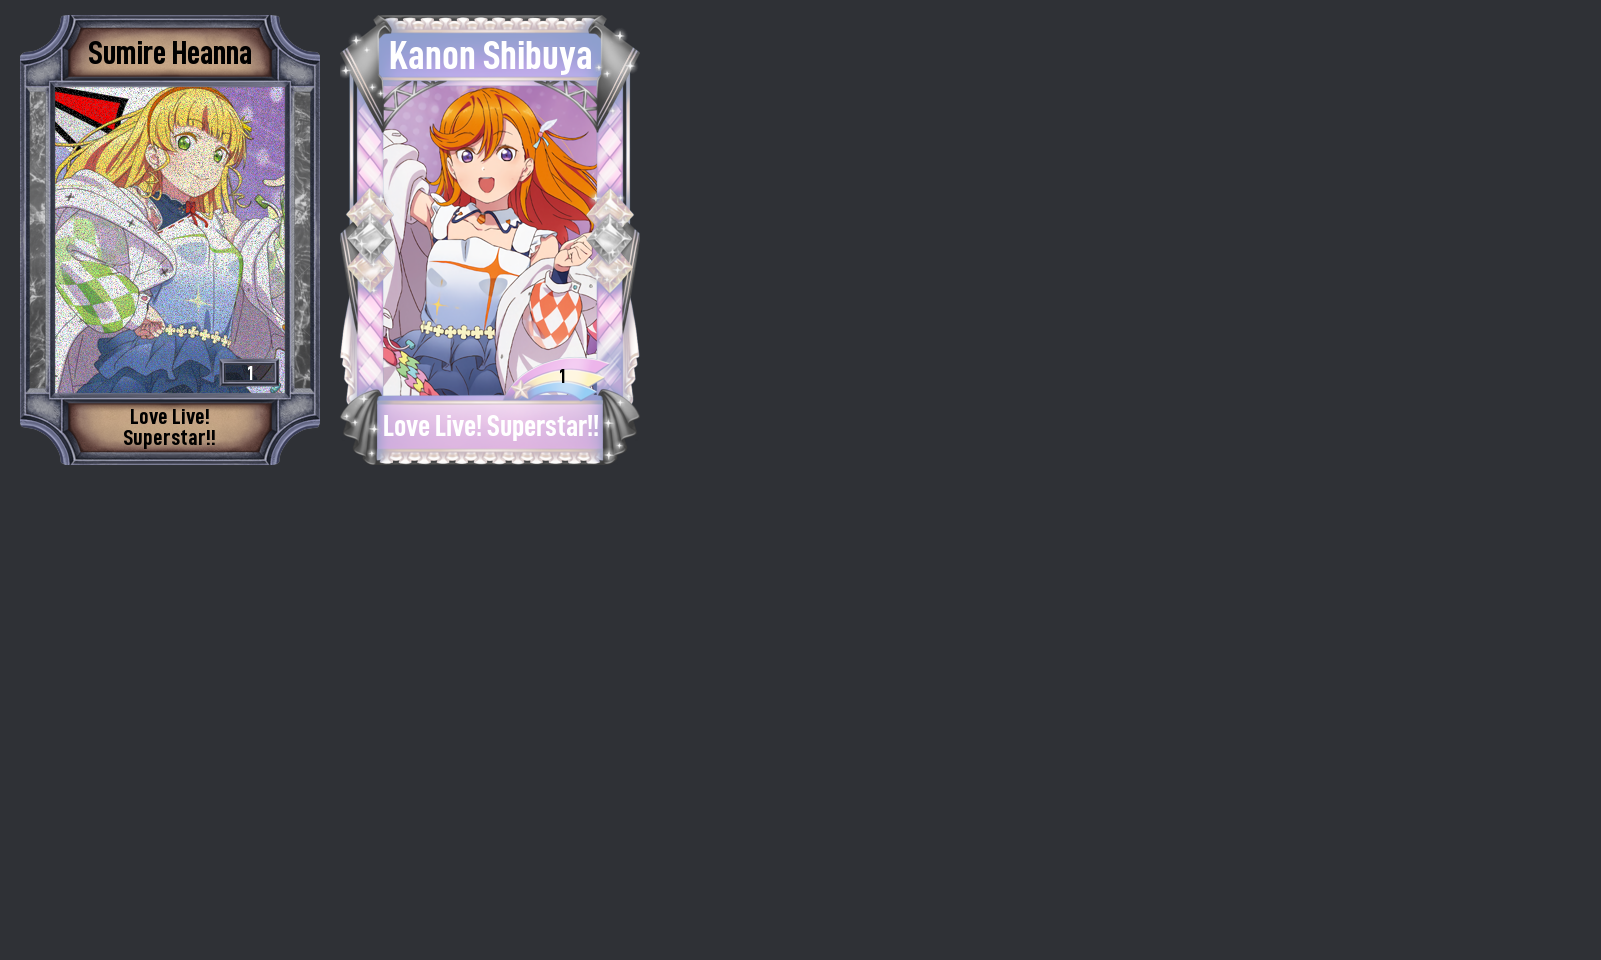
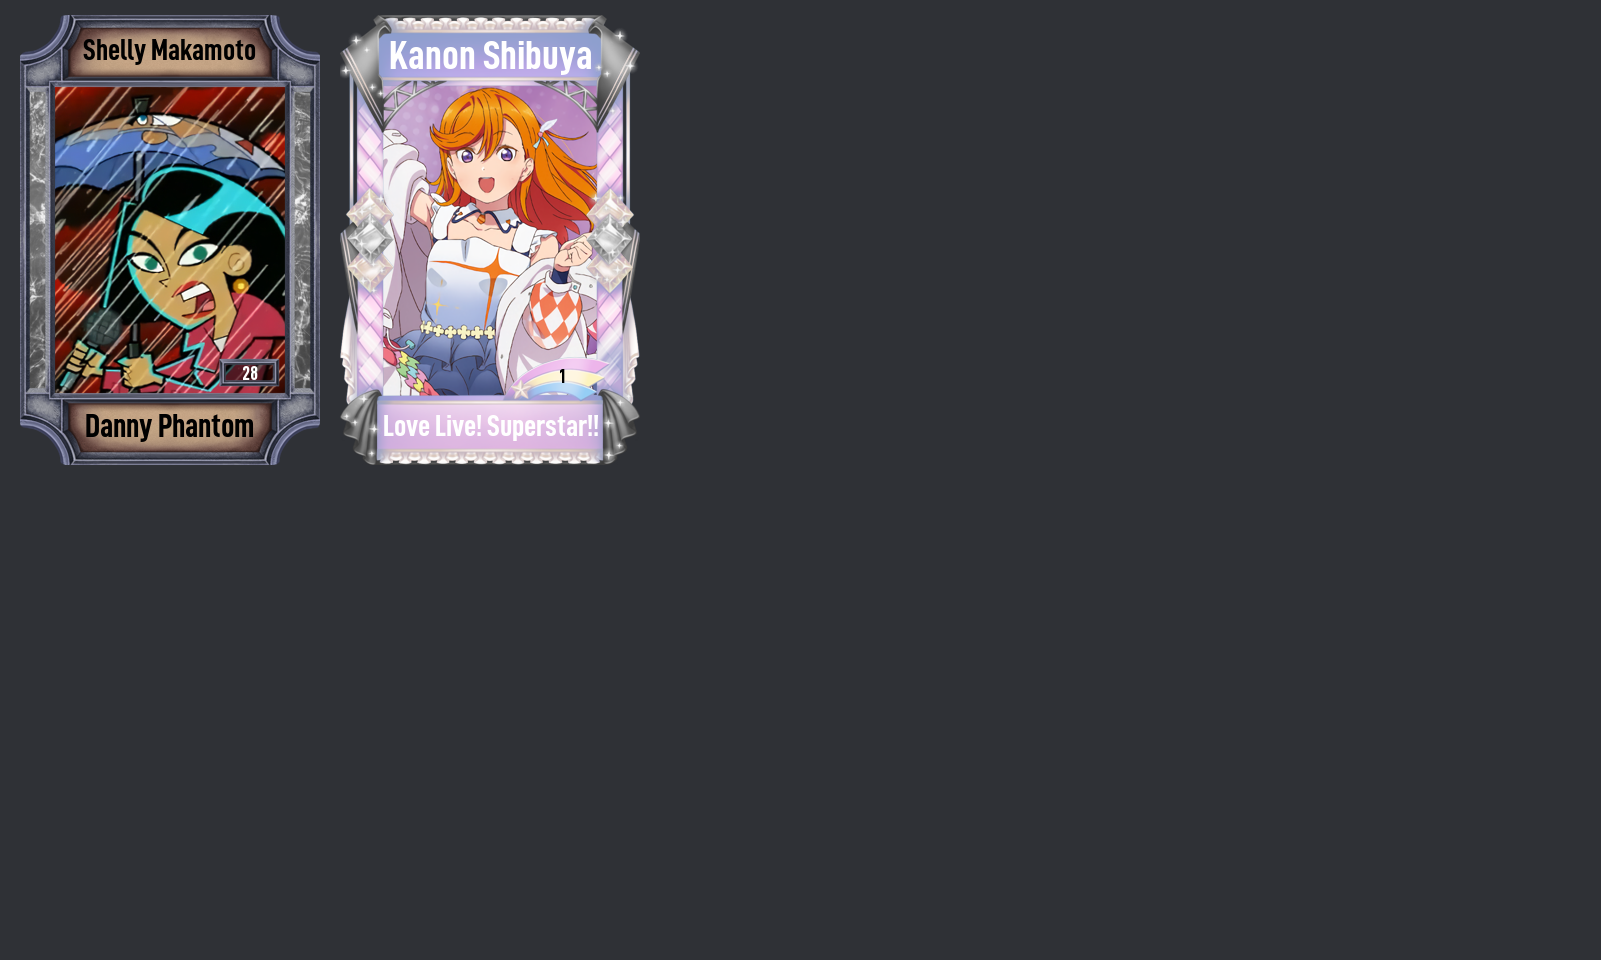
Started adding use command, fixed refresh, build image on loop

Changed region(s): [[0.0312, 0.0312, 0.1874, 0.4688]]

diff --git a/src/commands/use.ts b/src/commands/use.ts
@@ -1,0 +1,50 @@
+import SlashCommand from "../structures/Command";
+import {Client, CommandInteraction} from "discord.js";
+import {invEmbed} from "../utils/embeds";
+import {SlashCommandBuilder} from "@discordjs/builders";
+import {RESTPostAPIApplicationCommandsJSONBody} from "discord-api-types";
+import DB from "../db/index"
+import {CurrencyId} from "../utils/helpers";
+import Trader from "../structures/Trader";
+
+
+export default class UseCommand extends SlashCommand {
+    constructor() {
+        super("use", "Use a key to list your card.");
+    }
+
+    async exec(interaction: CommandInteraction) {
+        const currencyId = parseInt(interaction.options.getString('currency', true));
+        const startBid = (interaction.options.getInteger('start bid') ?? 1) - 1;
+
+        const {amount: userInv} = await DB.getInvItem(interaction.user.id, CurrencyId.Keys);
+        if (userInv < 1) return await interaction.reply({content: "You do not have any keys.", ephemeral: true});
+
+        const card = await (new Trader(interaction)).use();
+        if (!card) return;
+        card.currency_id = currencyId;
+        card.start_price = startBid;
+
+        await DB.queueCard(card);
+        await interaction.editReply({content: "Your card has been listed."});
+    }
+
+    build(client: Client): SlashCommandBuilder | RESTPostAPIApplicationCommandsJSONBody {
+        return new SlashCommandBuilder()
+            .setName(this.name)
+            .setDescription(this.description)
+            .addSubcommand(subcommand =>
+                subcommand
+                    .setName('key')
+                    .setDescription('Use a key to add a card to the auctions')
+                    .addStringOption(option =>
+                        option.setName('currency')
+                            .setDescription('The currency to list the card for')
+                            .setRequired(true)
+                            .addChoice('Opals', `${CurrencyId.Opals}`)
+                            .addChoice('Gold', `${CurrencyId.Gold}`)
+                            .addChoice('Clovers', `${CurrencyId.Clovers}`))
+                    .addIntegerOption(integer => integer.setName('start').setDescription('The minimum bid for the auction').setRequired(false).setMinValue(0).setMaxValue(1_000_000)))
+            .toJSON();
+    }
+}

diff --git a/src/db/index.ts b/src/db/index.ts
@@ -52,15 +52,16 @@ class DB {
 
     public static async endAuction(auction: Auctions, conn: any = pool) {
         await conn.query('UPDATE users SET cards = array_append(cards, $1) WHERE user_id = $2', [auction.card_code, auction.current_bidder]);
+        await conn.query('UPDATE auctions SET sent_dm = TRUE WHERE id = $1', [auction.id]);
     }
 
     public static async updateAuction(slot: number, nextCard: Queue, conn: any = pool) {
         await conn.query(
             "UPDATE auctions SET card_code = $1, currency_id = $2, current_bid = $3, " +
-            "current_bidder = $4, end_time = CURRENT_TIMESTAMP + INTERVAL '$5 minutes', " +
+            "current_bidder = $4, end_time = $5, " +
             "image_url = $6, card_details = $7, owner_id = $8 WHERE id = $9",
             [nextCard.card_code, nextCard.currency_id, nextCard.start_price,
-                config.botId, nextCard.duration,
+                config.botId, moment(new Date()).add(nextCard.duration, 'm').toDate(),
                 nextCard.image_url, nextCard.card_details, nextCard.owner_id, slot]);
         await conn.query('DELETE FROM queue WHERE id = $1', [nextCard.id]);
     }
@@ -110,7 +111,18 @@ class DB {
     }
 
     public static async getInvItem(userId: string, itemId: number): Promise<Inventory> {
-        return await this.fetchRow('SELECT * FROM inventory WHERE user_id = $1 AND item_id = $2', [userId, itemId]);
+        let inv: Inventory = await this.fetchRow('SELECT * FROM inventory WHERE user_id = $1 AND item_id = $2', [userId, itemId]);
+        inv ??= {user_id: userId, item_id: itemId, amount: 0};
+
+        return inv;
+    }
+
+    public static async queueCard(card: Queue) {
+        await pool.query(
+            'INSERT INTO queue(owner_id, card_code, card_details, image_url, duration, currency_id, start_price) ' +
+            'VALUES($1, $2, $3, $4, $5, $6, $7)',
+            [card.owner_id, card.card_code, card.card_details, card.image_url, card.duration, card.currency_id, card.start_price]);
+
     }
 
 }

diff --git a/src/events/ready.ts b/src/events/ready.ts
@@ -8,6 +8,7 @@ import {ApplicationCommandData} from 'discord.js';
 import getConfig from "../utils/config";
 import DB, {pool} from "../db";
 import {sendMessage} from "../utils/helpers";
+import buildAuction from "../utils/imageBuilder";
 
 const truthyFilter = <T>(x: T | false | undefined | "" | 0): x is T => !!x;
 const config = getConfig();
@@ -25,18 +26,18 @@ async function loop() {
 }
 
 async function auctionLoop() {
-    console.log('Entered')
     const client = await pool.connect();
 
     // Check auction loop
     discordLogger.info('Fetching auctions...');
     const auctions = await DB.getFinishedAuctions(false, client);
+    let buildImage = false;
     for (let auction of auctions) {
         try {
             client.query('BEGIN');
 
             // Give card to winner
-            if (auction.current_bidder) {
+            if (auction.current_bidder && !auction.sent_dm) {
                 discordLogger.info(`Ending auction slot ${auction.id} - ${auction.card_code}`);
                 await DB.endAuction(auction);
                 await sendMessage(auction.current_bidder, 'Congrats you won the auction :smile:')
@@ -49,6 +50,7 @@ async function auctionLoop() {
             if (nextCard) {
                 discordLogger.info(`Replacing auction with ${nextCard.card_code} from queue`);
                 await DB.updateAuction(auction.id, nextCard, client);
+                buildImage = true;
                 discordLogger.info('Updated auction')
             } else {
                 discordLogger.info('No cards found in queue')
@@ -62,6 +64,13 @@ async function auctionLoop() {
     }
 
     client.release();
+
+    if (buildImage) {
+        const auctions = await DB.getAuctions();
+        const imageUrls = auctions.map(a => a.image_url);
+        await buildAuction(imageUrls);
+    }
+
     discordLogger.info('Finished auction loop');
 }
 

diff --git a/src/utils/embeds.ts b/src/utils/embeds.ts
@@ -1,7 +1,7 @@
 import Discord from 'discord.js';
 import getConfig from './config';
 import {Auctions, Inventory} from "../db/tables";
-import {currencyEmotes, currencyId} from "./helpers";
+import {currencyEmotes, CurrencyId} from "./helpers";
 
 const config = getConfig();
 
@@ -11,7 +11,7 @@ export const errorEmbed = (title = "", description = "") =>
 
 const makeAuctionDesc = (auction: Auctions) => {
     const char = auction.quick ? "a" : auction.id;
-    const currency = currencyId[auction.currency_id];
+    const currency = CurrencyId[auction.currency_id];
     const emote = currencyEmotes[auction.currency_id];
     const unixTime = Math.floor(auction.end_time.getTime() / 1000);
     let endTime = new Date() > auction.end_time ? "**Ended**" : `<t:${unixTime}:R>`;
@@ -66,7 +66,7 @@ export const auctionEmbed = (auction: Auctions) => {
 export const bidEmbed = (auction: Auctions, userId: string, bidAmount: number) => {
     const description = `<@${userId}>, would you like to place a bid?\n
     Card: ${auction.card_details}
-    Bid: ${currencyEmotes[auction.currency_id]} \`${bidAmount} ${currencyId[auction.currency_id]}\`\n\n`;
+    Bid: ${currencyEmotes[auction.currency_id]} \`${bidAmount} ${CurrencyId[auction.currency_id]}\`\n\n`;
 
     return new Discord.MessageEmbed({
         ...config.embeds.primary,
@@ -81,7 +81,7 @@ export const bidEmbed = (auction: Auctions, userId: string, bidAmount: number) =
 export const invEmbed = (userId: string, userInv: Array<Inventory>) => {
     let description = `Showing <@${userId}>'s inventory\n\n`;
     for (let row of userInv) {
-        description += `${currencyEmotes[row.item_id]} **${row.amount}** · \`${currencyId[row.item_id]}\`\n`
+        description += `${currencyEmotes[row.item_id]} · **${row.amount}** · \`${CurrencyId[row.item_id]}\`\n`
     }
 
     return new Discord.MessageEmbed({

diff --git a/src/commands/bid.ts b/src/commands/bid.ts
@@ -4,7 +4,7 @@ import {bidEmbed} from "../utils/embeds";
 import {SlashCommandBuilder} from "@discordjs/builders";
 import {RESTPostAPIApplicationCommandsJSONBody} from "discord-api-types";
 import DB from "../db/index"
-import {currencyId, sendMessage} from "../utils/helpers";
+import {CurrencyId, sendMessage} from "../utils/helpers";
 import Confirmation from "../structures/Confirmation";
 import {Auctions} from "../db/tables";
 import moment from "moment";
@@ -39,8 +39,8 @@ export default class BidCommand extends SlashCommand {
     }
 
     async exec(interaction: CommandInteraction) {
-        const slot = interaction.options.getInteger('slot')!;
-        const amount = interaction.options.getInteger('amount')!;
+        const slot = interaction.options.getInteger('slot', true);
+        const amount = interaction.options.getInteger('amount', true);
 
         let auction = await DB.getAuction(slot);
         if (auction == null) {
@@ -66,7 +66,7 @@ export default class BidCommand extends SlashCommand {
                         ephemeral: true
                     })
                 }
-                const message = (`You have been outbid by <@${newAuction.current_bidder}> with a bid of **${newAuction.current_bid} ${currencyId[newAuction.currency_id]}** on ${newAuction.card_details}!`)
+                const message = (`You have been outbid by <@${newAuction.current_bidder}> with a bid of **${newAuction.current_bid} ${CurrencyId[newAuction.currency_id]}** on ${newAuction.card_details}!`)
                 await sendMessage(auction.current_bidder, message);
             }
         }

diff --git a/src/structures/Trader.ts b/src/structures/Trader.ts
@@ -1,0 +1,43 @@
+import {Collection, CommandInteraction, Message, User} from "discord.js";
+import getConfig from "../utils/config";
+import {Queue} from "../db/tables";
+
+const config = getConfig();
+
+export default class Trader {
+    private interaction: CommandInteraction;
+    private user: User;
+
+    constructor(interaction: CommandInteraction) {
+        this.interaction = interaction;
+        this.user = interaction.user;
+    }
+
+    public async use(): Promise<Queue | void> {
+        await this.interaction.deferReply();
+
+        const filter = (msg: Message) => {
+            return msg.channel.id == this.interaction.channel!.id && msg.author.id == config.tofuId;
+        };
+
+        let collected: Collection<string, Message>;
+        try {
+            collected = await this.interaction.channel!.awaitMessages({filter, max: 1, time: 30000, errors: ['time']});
+        } catch (e) {
+            return;
+        }
+
+        console.log(collected);
+
+        return {
+            id: NaN,
+            owner_id: this.user.id,
+            card_code: 'lmao',
+            card_details: 'bunch of random garble',
+            image_url: collected.first()?.embeds[0].image?.url!,
+            duration: 360, // minutes
+            currency_id: NaN,
+            start_price: NaN
+        };
+    }
+}

diff --git a/src/utils/helpers.ts b/src/utils/helpers.ts
@@ -1,21 +1,24 @@
 import {User} from "discord.js";
 import {client} from "../index";
 
-export enum currencyId {
-    Opals,
+export enum CurrencyId {
+    Opals = 0,
     Gold,
-    Clovers
+    Clovers,
+    Keys
 }
 
 export const currencyEmotes: Record<number, string> = {
-    [currencyId.Opals]: ":opals:",
-    [currencyId.Gold]: ":gold:",
-    [currencyId.Clovers]: ":four_leaf_clover:"
+    [CurrencyId.Opals]: ":opals:",
+    [CurrencyId.Gold]: ":gold:",
+    [CurrencyId.Clovers]: ":four_leaf_clover:",
+    [CurrencyId.Keys]: ":key:"
 }
 
 export async function sendMessage(user: User | string, message: string) {
     try {
         if (typeof user === 'string') user = await client.users.fetch(user);
         await user.send(message);
-    } catch {}
+    } catch {
+    }
 }

diff --git a/src/commands/auction.ts b/src/commands/auction.ts
@@ -3,7 +3,6 @@ import {Client, CommandInteraction} from "discord.js";
 import {auctionEmbed, auctionListEmbed} from "../utils/embeds";
 import {SlashCommandBuilder} from "@discordjs/builders";
 import {RESTPostAPIApplicationCommandsJSONBody} from "discord-api-types";
-import buildAuction from "../utils/imageBuilder"
 import DB from "../db/index"
 
 const {MessageAttachment} = require('discord.js');
@@ -31,10 +30,6 @@ export default class AuctionCommand extends SlashCommand {
         }
 
         const auctions = await DB.getAuctions();
-        const imageUrls = auctions.map(a => a.image_url);
-
-        await buildAuction(imageUrls);
-
         const file = new MessageAttachment("./src/resources/auction.png");
         const embed = auctionListEmbed(auctions);
 

diff --git a/src/index.ts b/src/index.ts
@@ -7,7 +7,17 @@ dotenv.config();
 const config = getConfig();
 
 export const client = new Discord.Client({
-    intents: [Discord.Intents.FLAGS.GUILDS]
+    intents: [
+        'GUILD_MESSAGE_REACTIONS',
+        'GUILD_MESSAGES',
+        'GUILD_WEBHOOKS',
+        'GUILD_EMOJIS_AND_STICKERS',
+        'GUILD_INTEGRATIONS',
+        'DIRECT_MESSAGES',
+        'GUILDS',
+    ],
+    partials: ['MESSAGE', 'CHANNEL', 'REACTION'],
+    restTimeOffset: 0
 });
 
 import fs from 'fs';

diff --git a/src/utils/config.ts b/src/utils/config.ts
@@ -10,6 +10,7 @@ export type DiscordBotConfig = {
     token: string,
     devGuild: string,
     botId: string,
+    tofuId: string,
     embeds: {
         primary: APIEmbed
         fail: APIEmbed

diff --git a/src/db/tables.ts b/src/db/tables.ts
@@ -9,7 +9,7 @@ export interface Auctions {
     image_url: string,
     card_details: string,
     owner_id: string,
-    start_bid: number
+    sent_dm: boolean
 }
 
 export interface Inventory {
